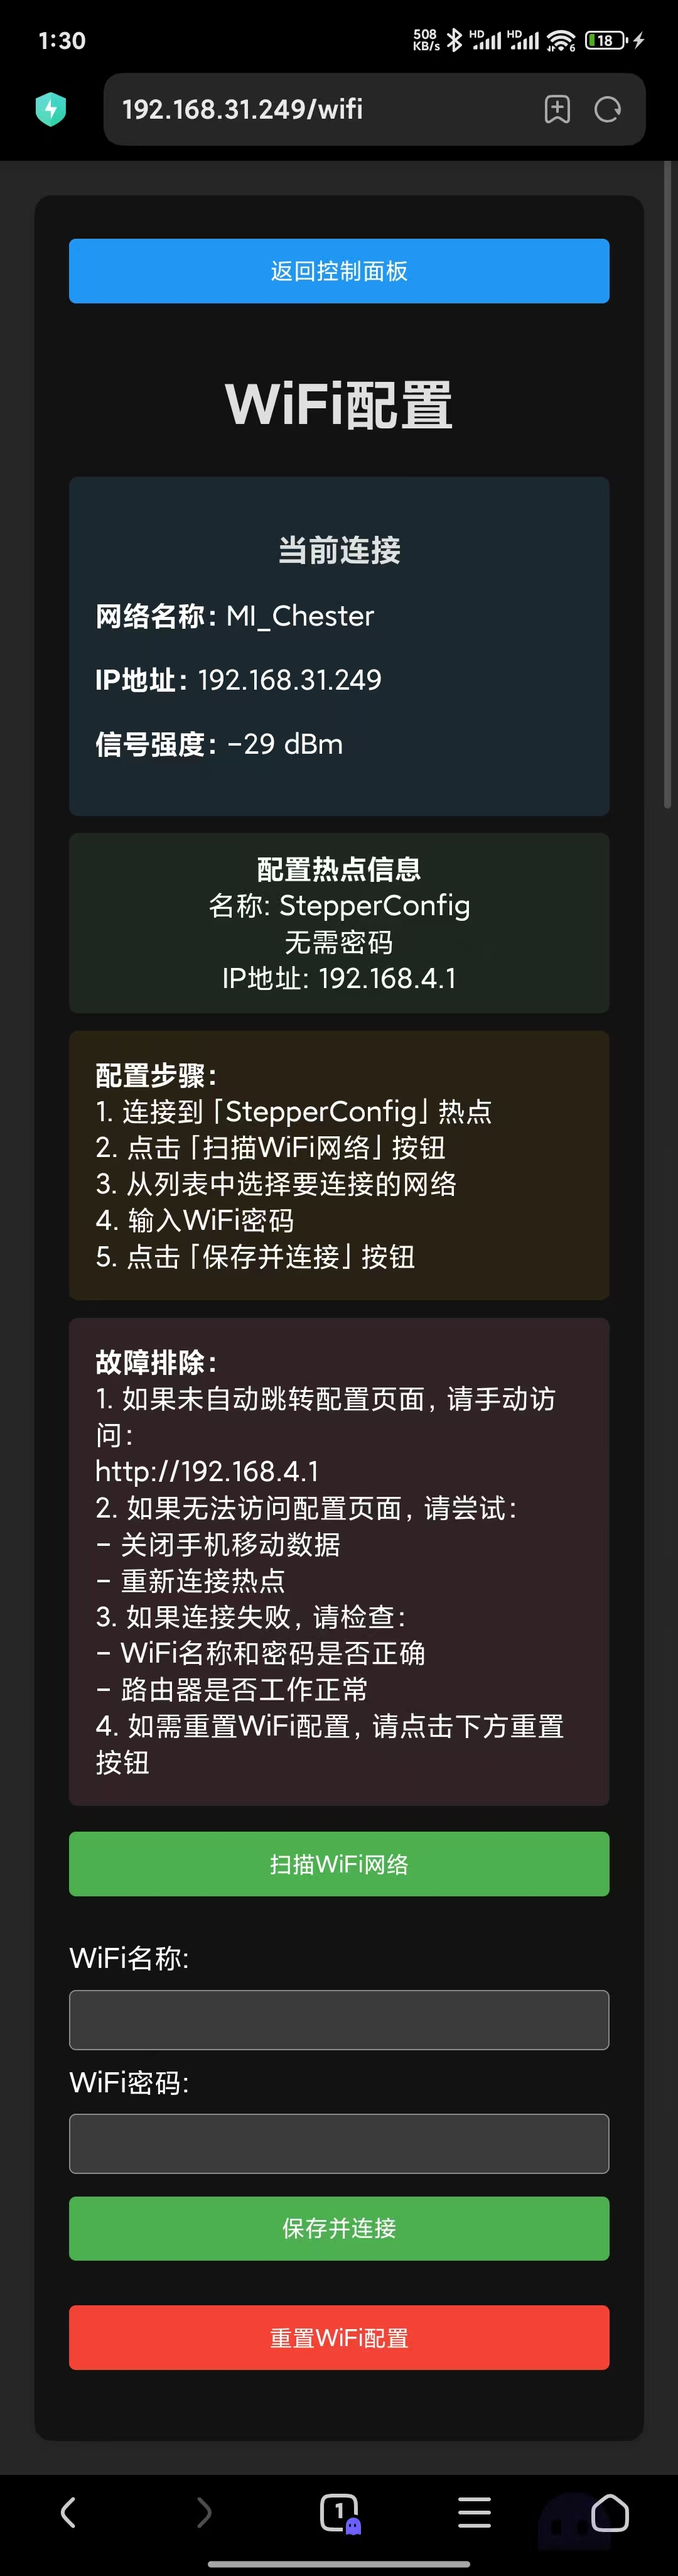
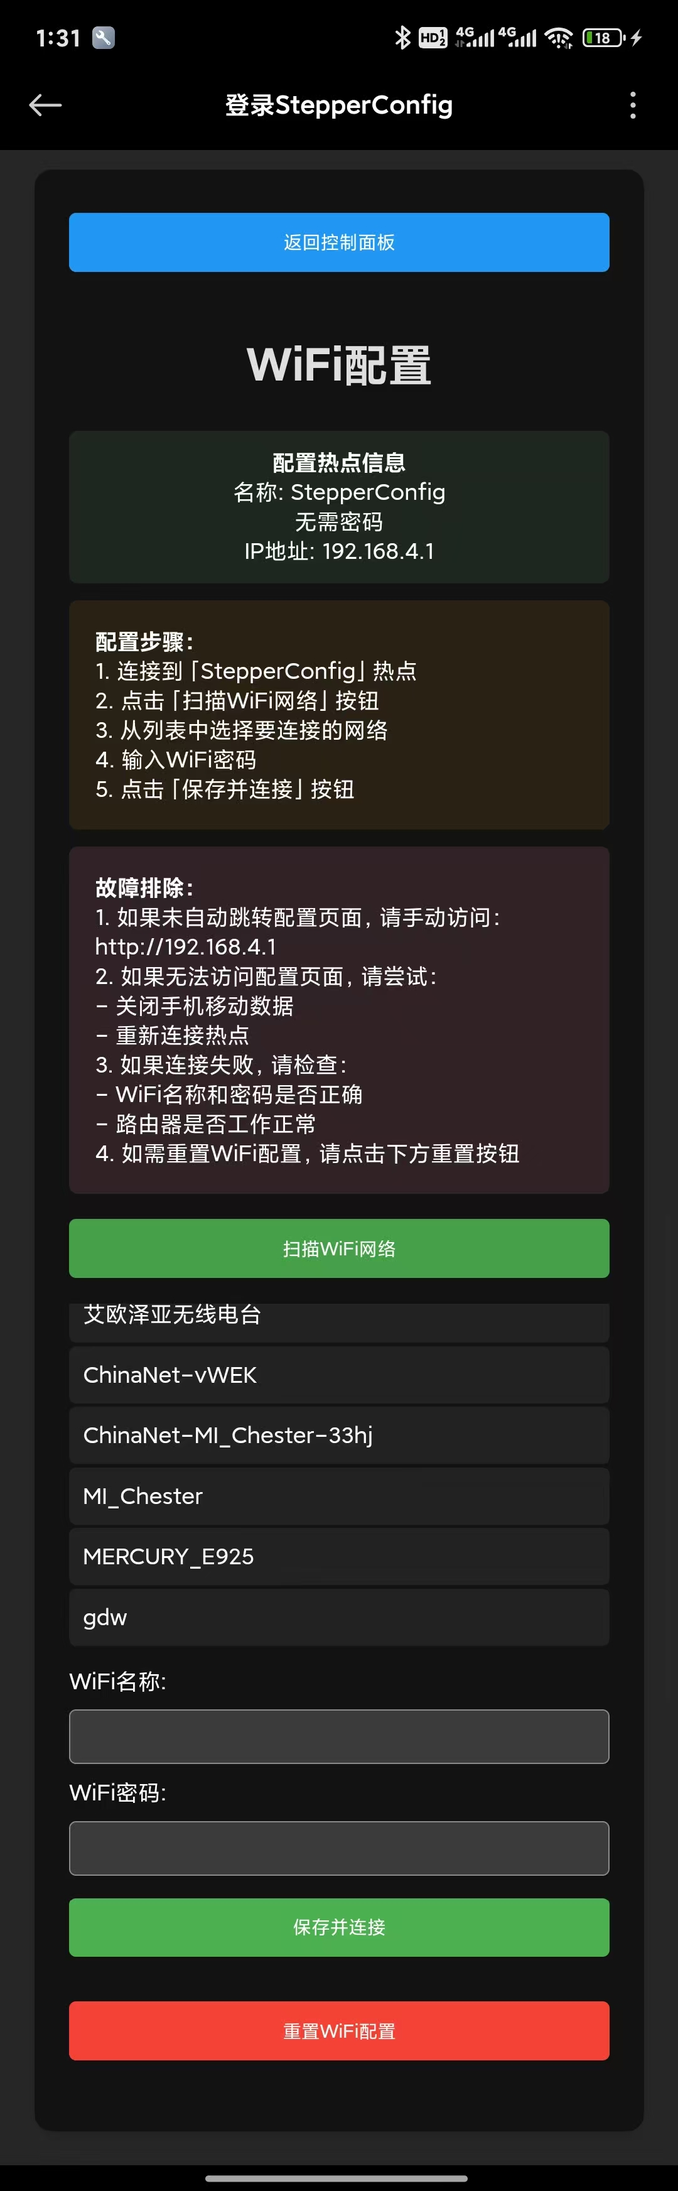
add wifi info page when first login

diff --git a/README.md b/README.md
@@ -47,6 +47,7 @@
 2. 移动端首次配置界面
 > 首次使用时的快速配置向导
 ![移动端首次配置](images/移动端首次连接开发版热点配置网络信息.pic.jpg)
+![移动端首次配置2](images/登录 wifi 后的ip 信息页面.jpg)
 
 3. 移动端网络管理界面
 > 便捷的网络设置和状态查看
